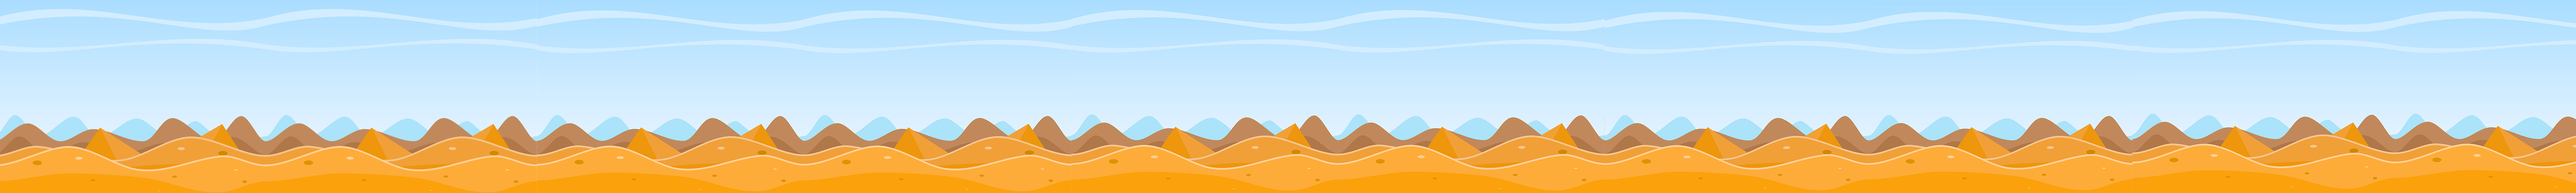
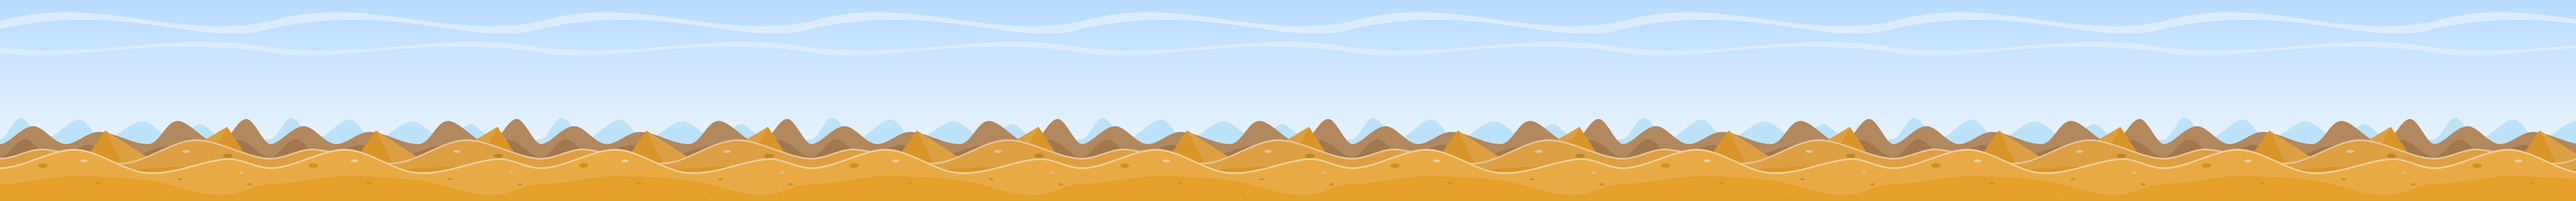
Changed background, tmx and some comments in visual studio

diff --git a/INDIANA JUMPS_BO/Motor2D/j1Scene.cpp b/INDIANA JUMPS_BO/Motor2D/j1Scene.cpp
@@ -50,10 +50,10 @@ bool j1Scene::Update(float dt)
 		App->SaveGame();
 
 	//if(App->input->GetKey(SDL_SCANCODE_UP) == KEY_REPEAT)
-		App->render->camera.y -= 1;
+		//App->render->camera.y -= 1;
 
 	//if(App->input->GetKey(SDL_SCANCODE_DOWN) == KEY_REPEAT)
-		App->render->camera.y += 1;
+		//App->render->camera.y += 1;
 
 		if (App->input->GetKey(SDL_SCANCODE_RIGHT) == KEY_REPEAT)
 			App->render->camera.x -= 1;
